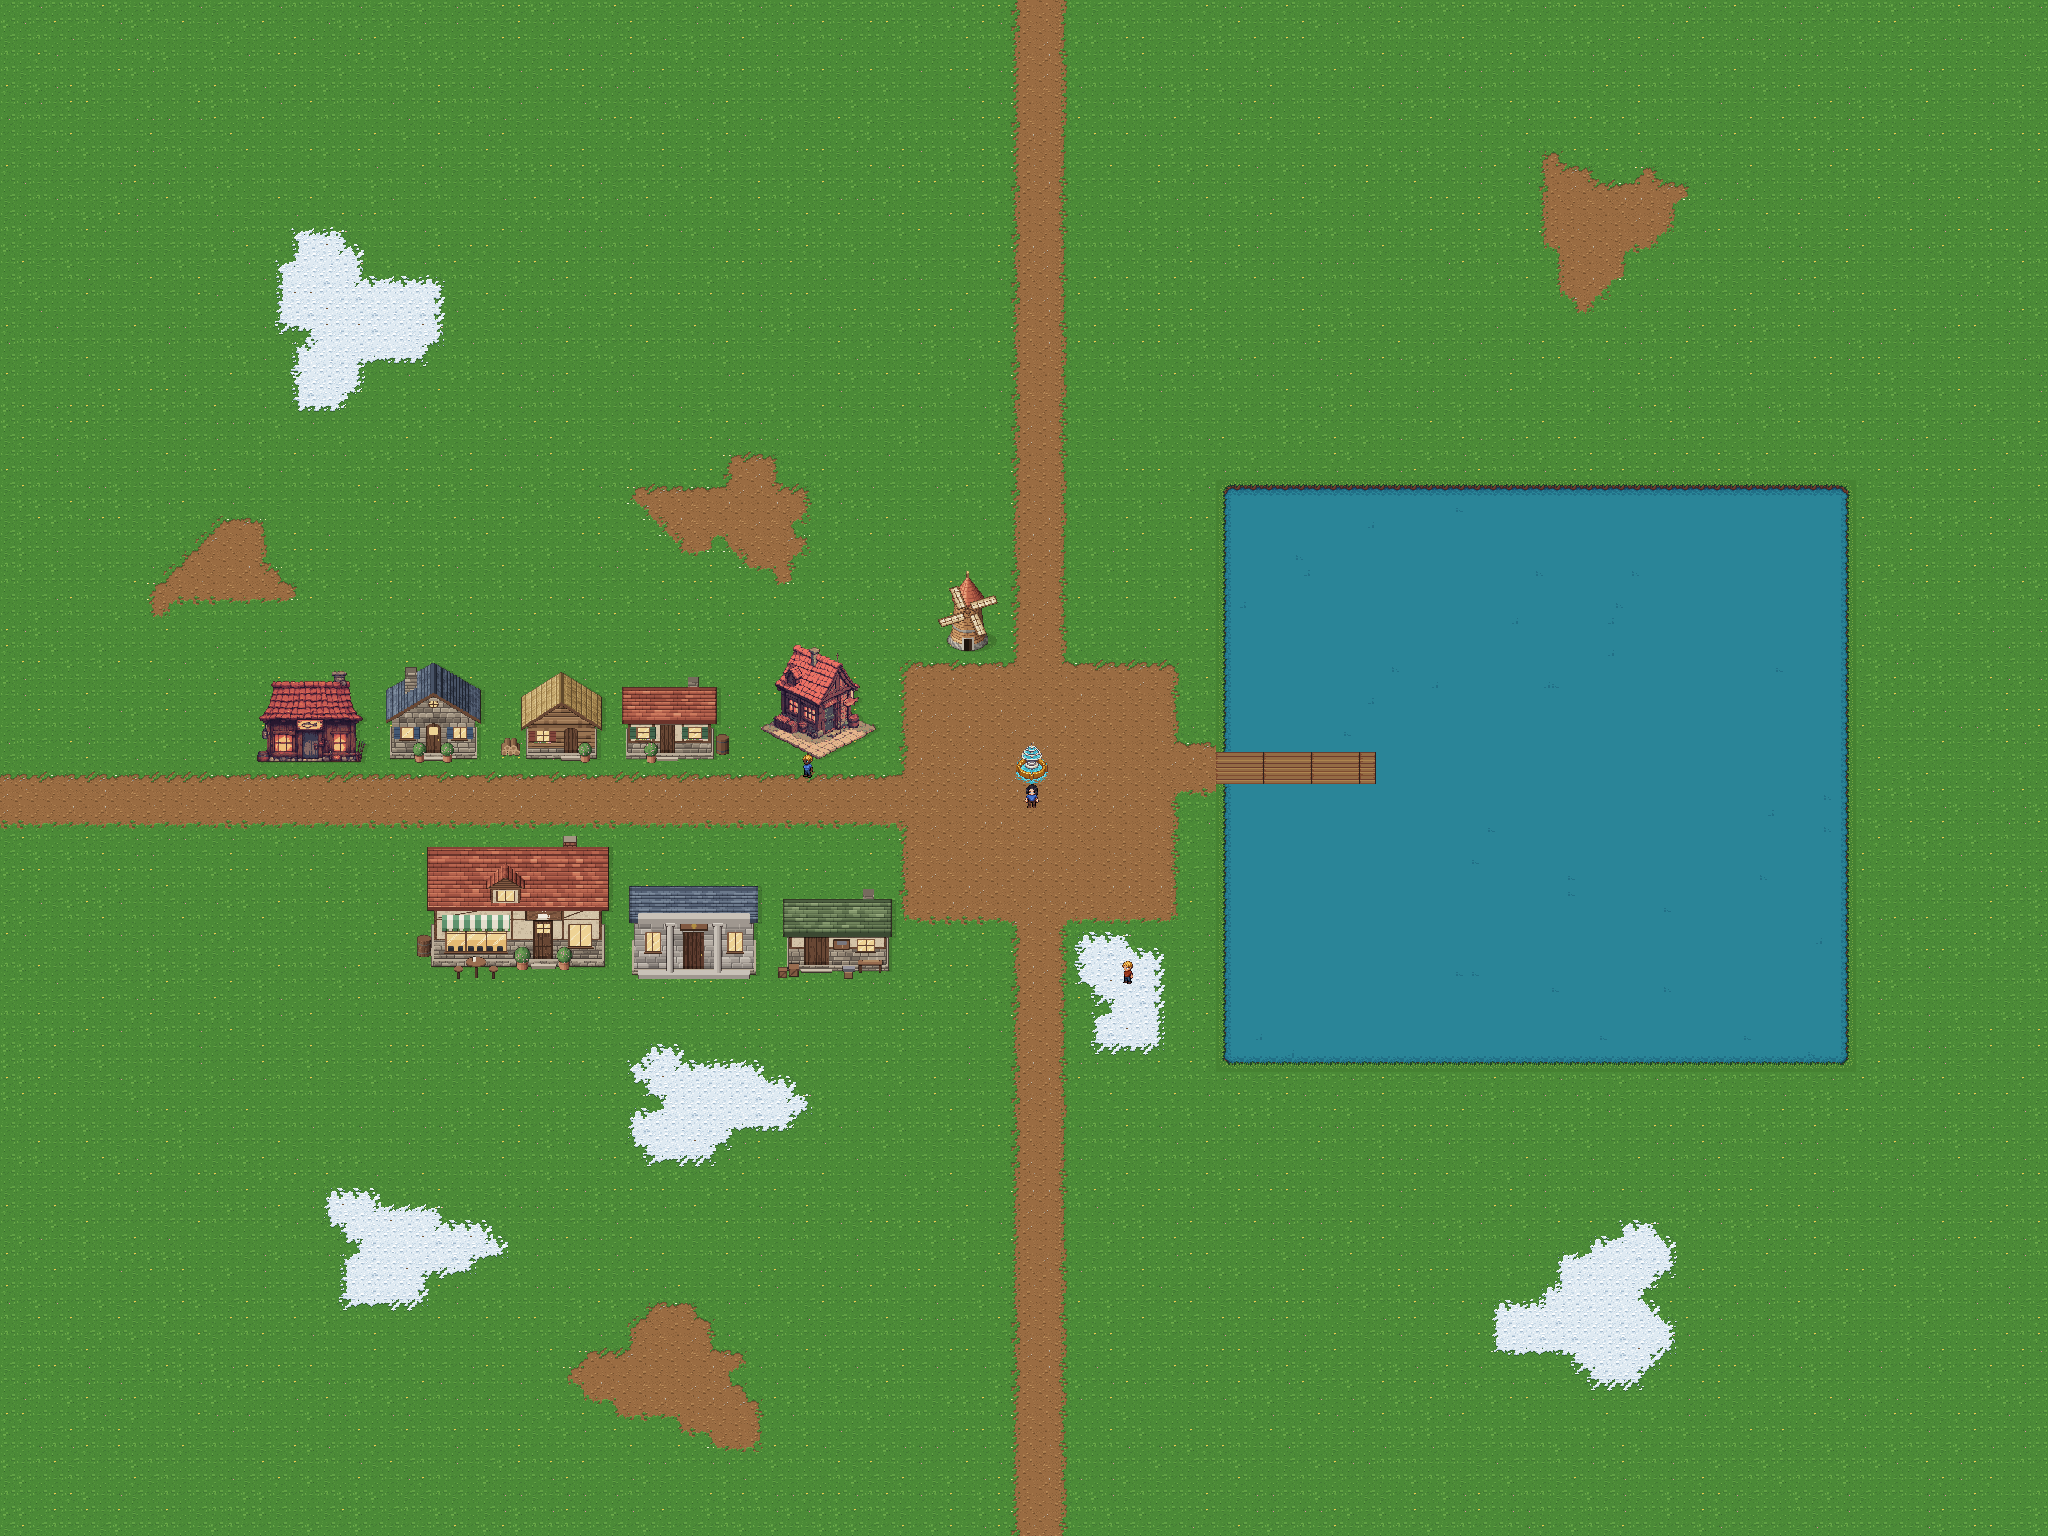
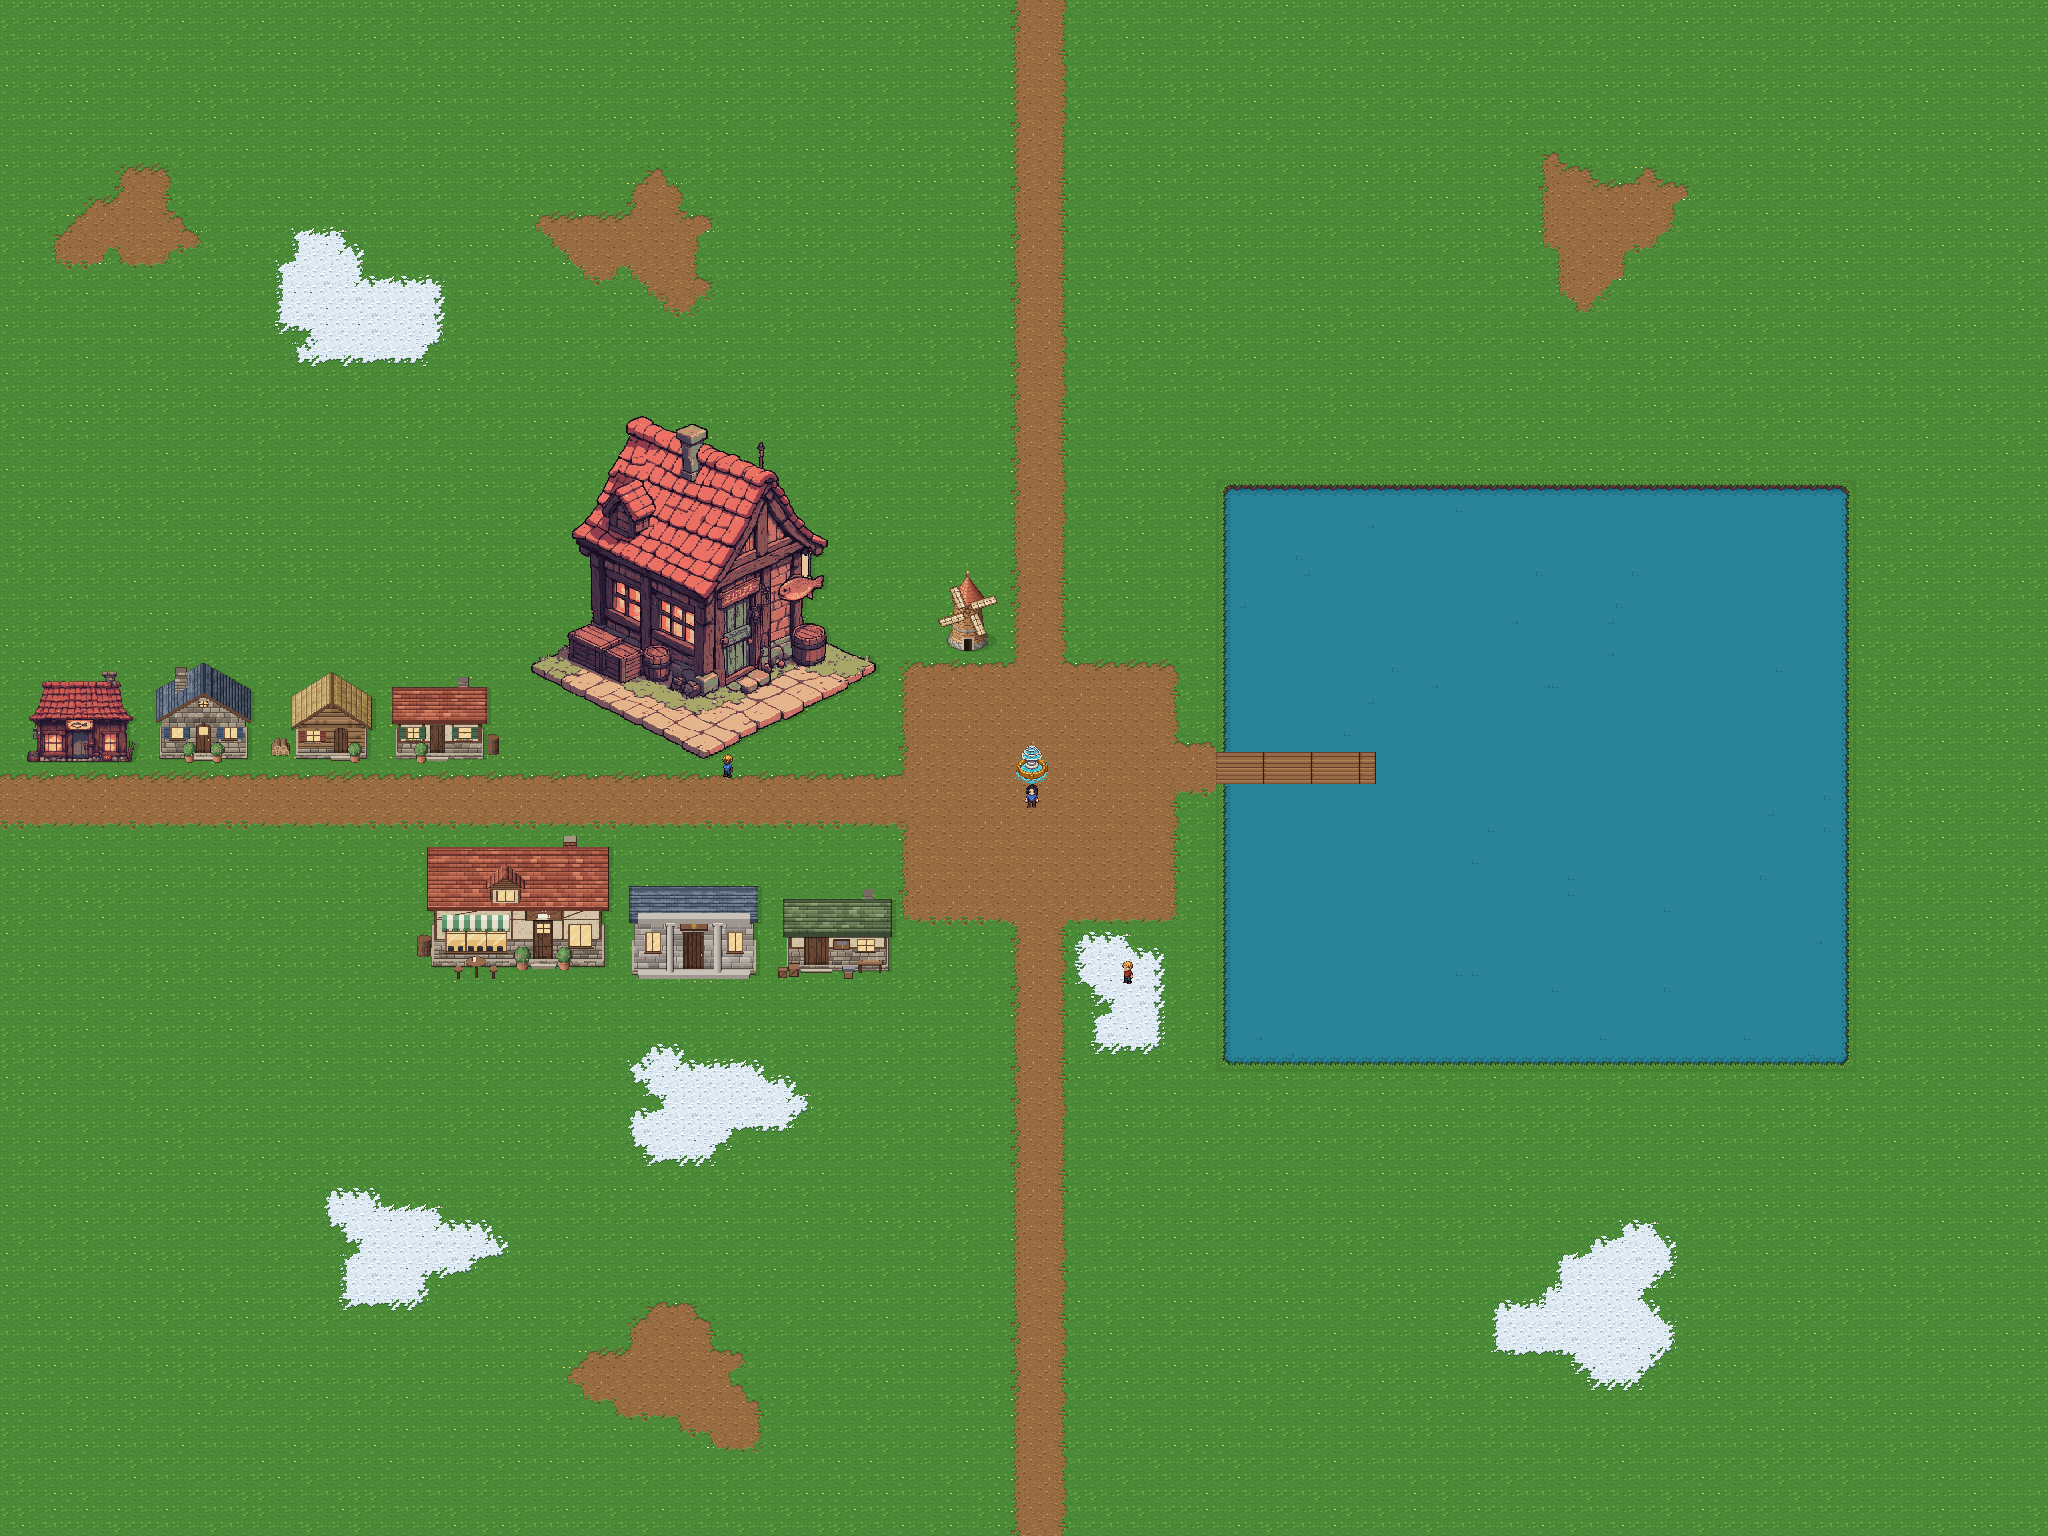
TEMP: place the large second fishing shop 1:1, make room in the north row

diff --git a/client/Assets/Scripts/World/MapView.cs b/client/Assets/Scripts/World/MapView.cs
@@ -183,7 +183,7 @@ namespace CollectionGame.World
             (61f, new[] { "custom/Buildings/atolye.png", "custom/Buildings/banka.png", "custom/Cafe/cafe.png" }),
         };
         // Tiles the rows cover (with a margin), kept free of the ground preview's patches.
-        static readonly RectInt[] ArtPreviewArea = { new RectInt(12, 39, 46, 10), new RectInt(20, 51, 38, 11) };
+        static readonly RectInt[] ArtPreviewArea = { new RectInt(0, 24, 58, 25), new RectInt(20, 51, 38, 11) };
 
         void BuildArtPreview() // TEMP art preview
         {
@@ -223,13 +223,13 @@ namespace CollectionGame.World
         static readonly (float x, float y, float rx, float ry, byte m, int seed)[] PreviewPatches =
         {
             (44f, 69f, 4.5f, 3.2f, VSnow, 1), // just south of the second building row
-            (46f, 32f, 4.5f, 3.2f, VDirt, 2), // just north of the first building row
+            (40f, 15f, 4.5f, 3.2f, VDirt, 2), // north of the first building row
             (22f, 20f, 5f, 4f, VSnow, 3),
             (100f, 82f, 5f, 4f, VSnow, 4),
             (25f, 78f, 4f, 3.5f, VSnow, 5),
             (42f, 86f, 5f, 3.5f, VDirt, 6),
             (100f, 14f, 4.5f, 3.5f, VDirt, 7),
-            (14f, 36f, 3.5f, 3f, VDirt, 8),
+            (8f, 14f, 3.5f, 3f, VDirt, 8),
             (70.5f, 62f, 2.6f, 3.6f, VSnow, 9), // between the south road and the lake, a few steps from spawn
         };
         byte[,] previewVerts;
